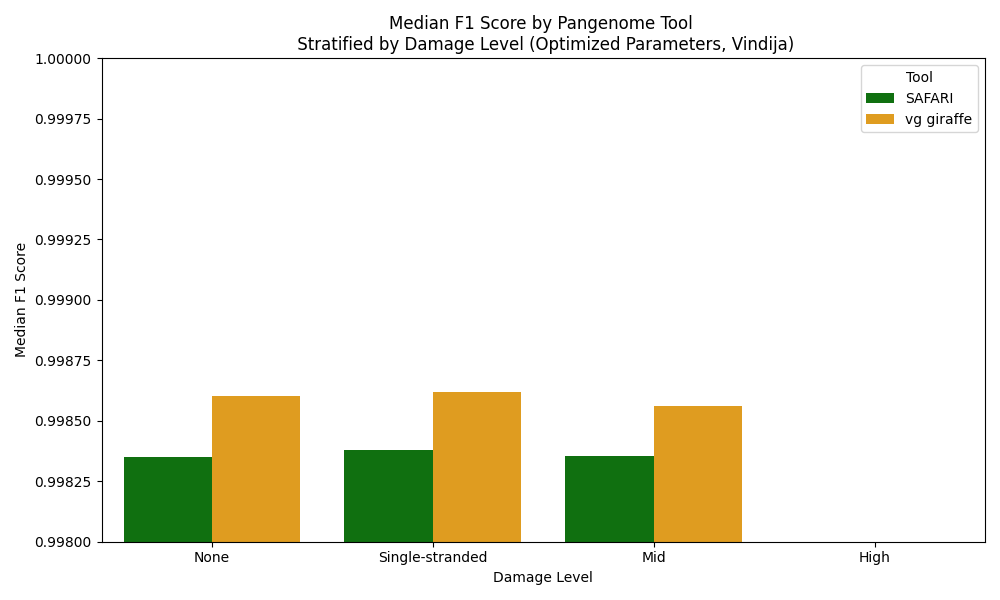
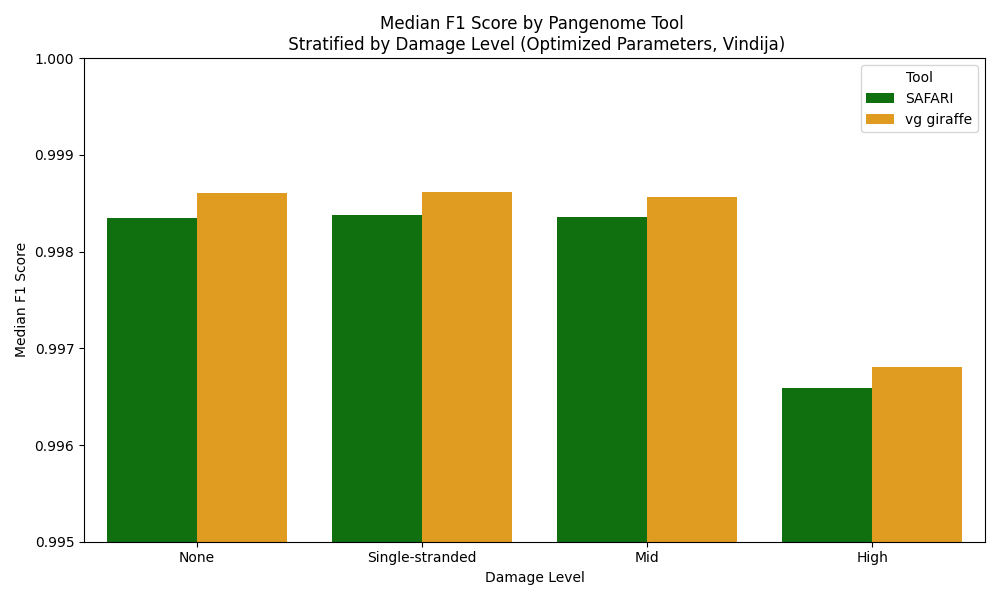
Update

diff --git a/linear_experiment/human_mito/stat_results/plot_F1_optimized_pangenome.py b/linear_experiment/human_mito/stat_results/plot_F1_optimized_pangenome.py
@@ -44,7 +44,7 @@ def main():
     plt.xlabel('Damage Level')
     plt.ylabel('Median F1 Score')
     plt.legend(title='Tool')
-    plt.ylim(0.998, 1)  # Restrict y-axis to start at 0.7
+    plt.ylim(0.995, 1)  # Restrict y-axis to start at 0.7
     plt.tight_layout()
 
     plt.savefig(sys.argv[2])
